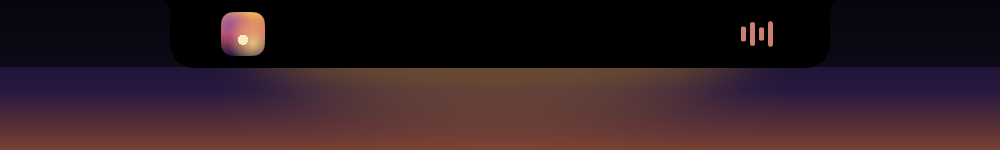
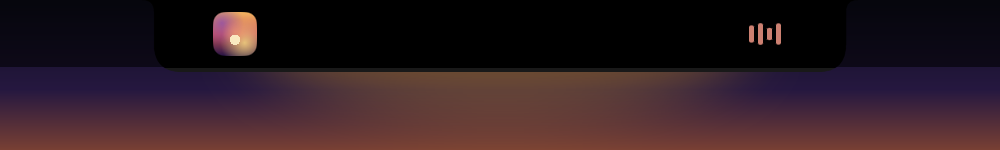
README images for 0.2
New charging GIF and hero with the current notch, the four moments (music,
AirPods, volume, timer), the Battery tab with AirPods, the Shelf, and the
settings with all modules. Made with the demo track and demo files, so no
real music, names or files are shown.

Changed region(s): [[0.186, 0.08, 0.279, 0.3733], [0.155, 0.4267, 0.837, 0.48], [0.744, 0.1333, 0.806, 0.32]]

diff --git a/README.md b/README.md
@@ -27,6 +27,10 @@ The notch on your MacBook is a hole in the screen. Perch turns it into a living 
 
 **Lives in the notch.** When nothing is happening, Perch is invisible. When something is, it slides out of the notch on both sides, and slides back under it when it is over. Rest the pointer on it or click it to open the full view.
 
+<p align="center">
+  <img src="docs/images/moments.png" alt="Four moments out of the notch: music with artwork and equalizer, AirPods at 79 percent, the volume bar, and a timer counting down" width="560">
+</p>
+
 **Music from any app.** Spotify, Apple Music, a YouTube tab: whatever reports to Now Playing shows up with its artwork and an equalizer tinted in the artwork's colour. Open the notch for title, a seekable progress bar and controls. Click the artwork to jump to the app.
 
 <p align="center">
@@ -37,11 +41,19 @@ The notch on your MacBook is a hole in the screen. Perch turns it into a living 
 
 **Your AirPods, like on iPhone.** Take them out of the case and they slide out of the notch with their battery. The Battery tab shows your Mac and each bud and the case, with which one is charging.
 
+<p align="center">
+  <img src="docs/images/battery.png" alt="The Battery tab: the Mac fully charged beside AirPods Pro with rings for the left bud, right bud and case" width="720">
+</p>
+
 **Volume and brightness, out of the notch.** Press the keys and a slim slider slides out of the notch instead of the grey box in the middle of your screen. Hover over it to drag. It even shows over a full-screen video.
 
 **A timer that rings.** Pick a preset or dial in minutes; the countdown sits in the notch, and when it ends you hear the familiar timer sound until you stop it.
 
 **A shelf for files.** Drag files onto the notch to park them there, then drag them out where you need them or send them all with AirDrop.
+
+<p align="center">
+  <img src="docs/images/shelf.png" alt="The Shelf tab with five files parked in the notch, and AirDrop and Clear buttons" width="720">
+</p>
 
 **Keep awake.** One click on the cup keeps your Mac awake, until you turn it off or for 30 minutes to 2 hours.
 
@@ -50,7 +62,7 @@ The notch on your MacBook is a hole in the screen. Perch turns it into a living 
 **Yours to tune.** Hover or click to open, how long to wait, how strong the haptics are, which screens get a notch, which modules run, and whether music or your battery stays beside the notch when nothing is happening.
 
 <p align="center">
-  <img src="docs/images/settings.png" alt="Perch settings: modules with their own options, under a live copy of the notch" width="480">
+  <img src="docs/images/settings.png" alt="Perch settings: music, timer, shelf, AirPods and battery modules, each with a switch, under a live copy of the notch" width="480">
 </p>
 
 ## Built to stay out of the way
